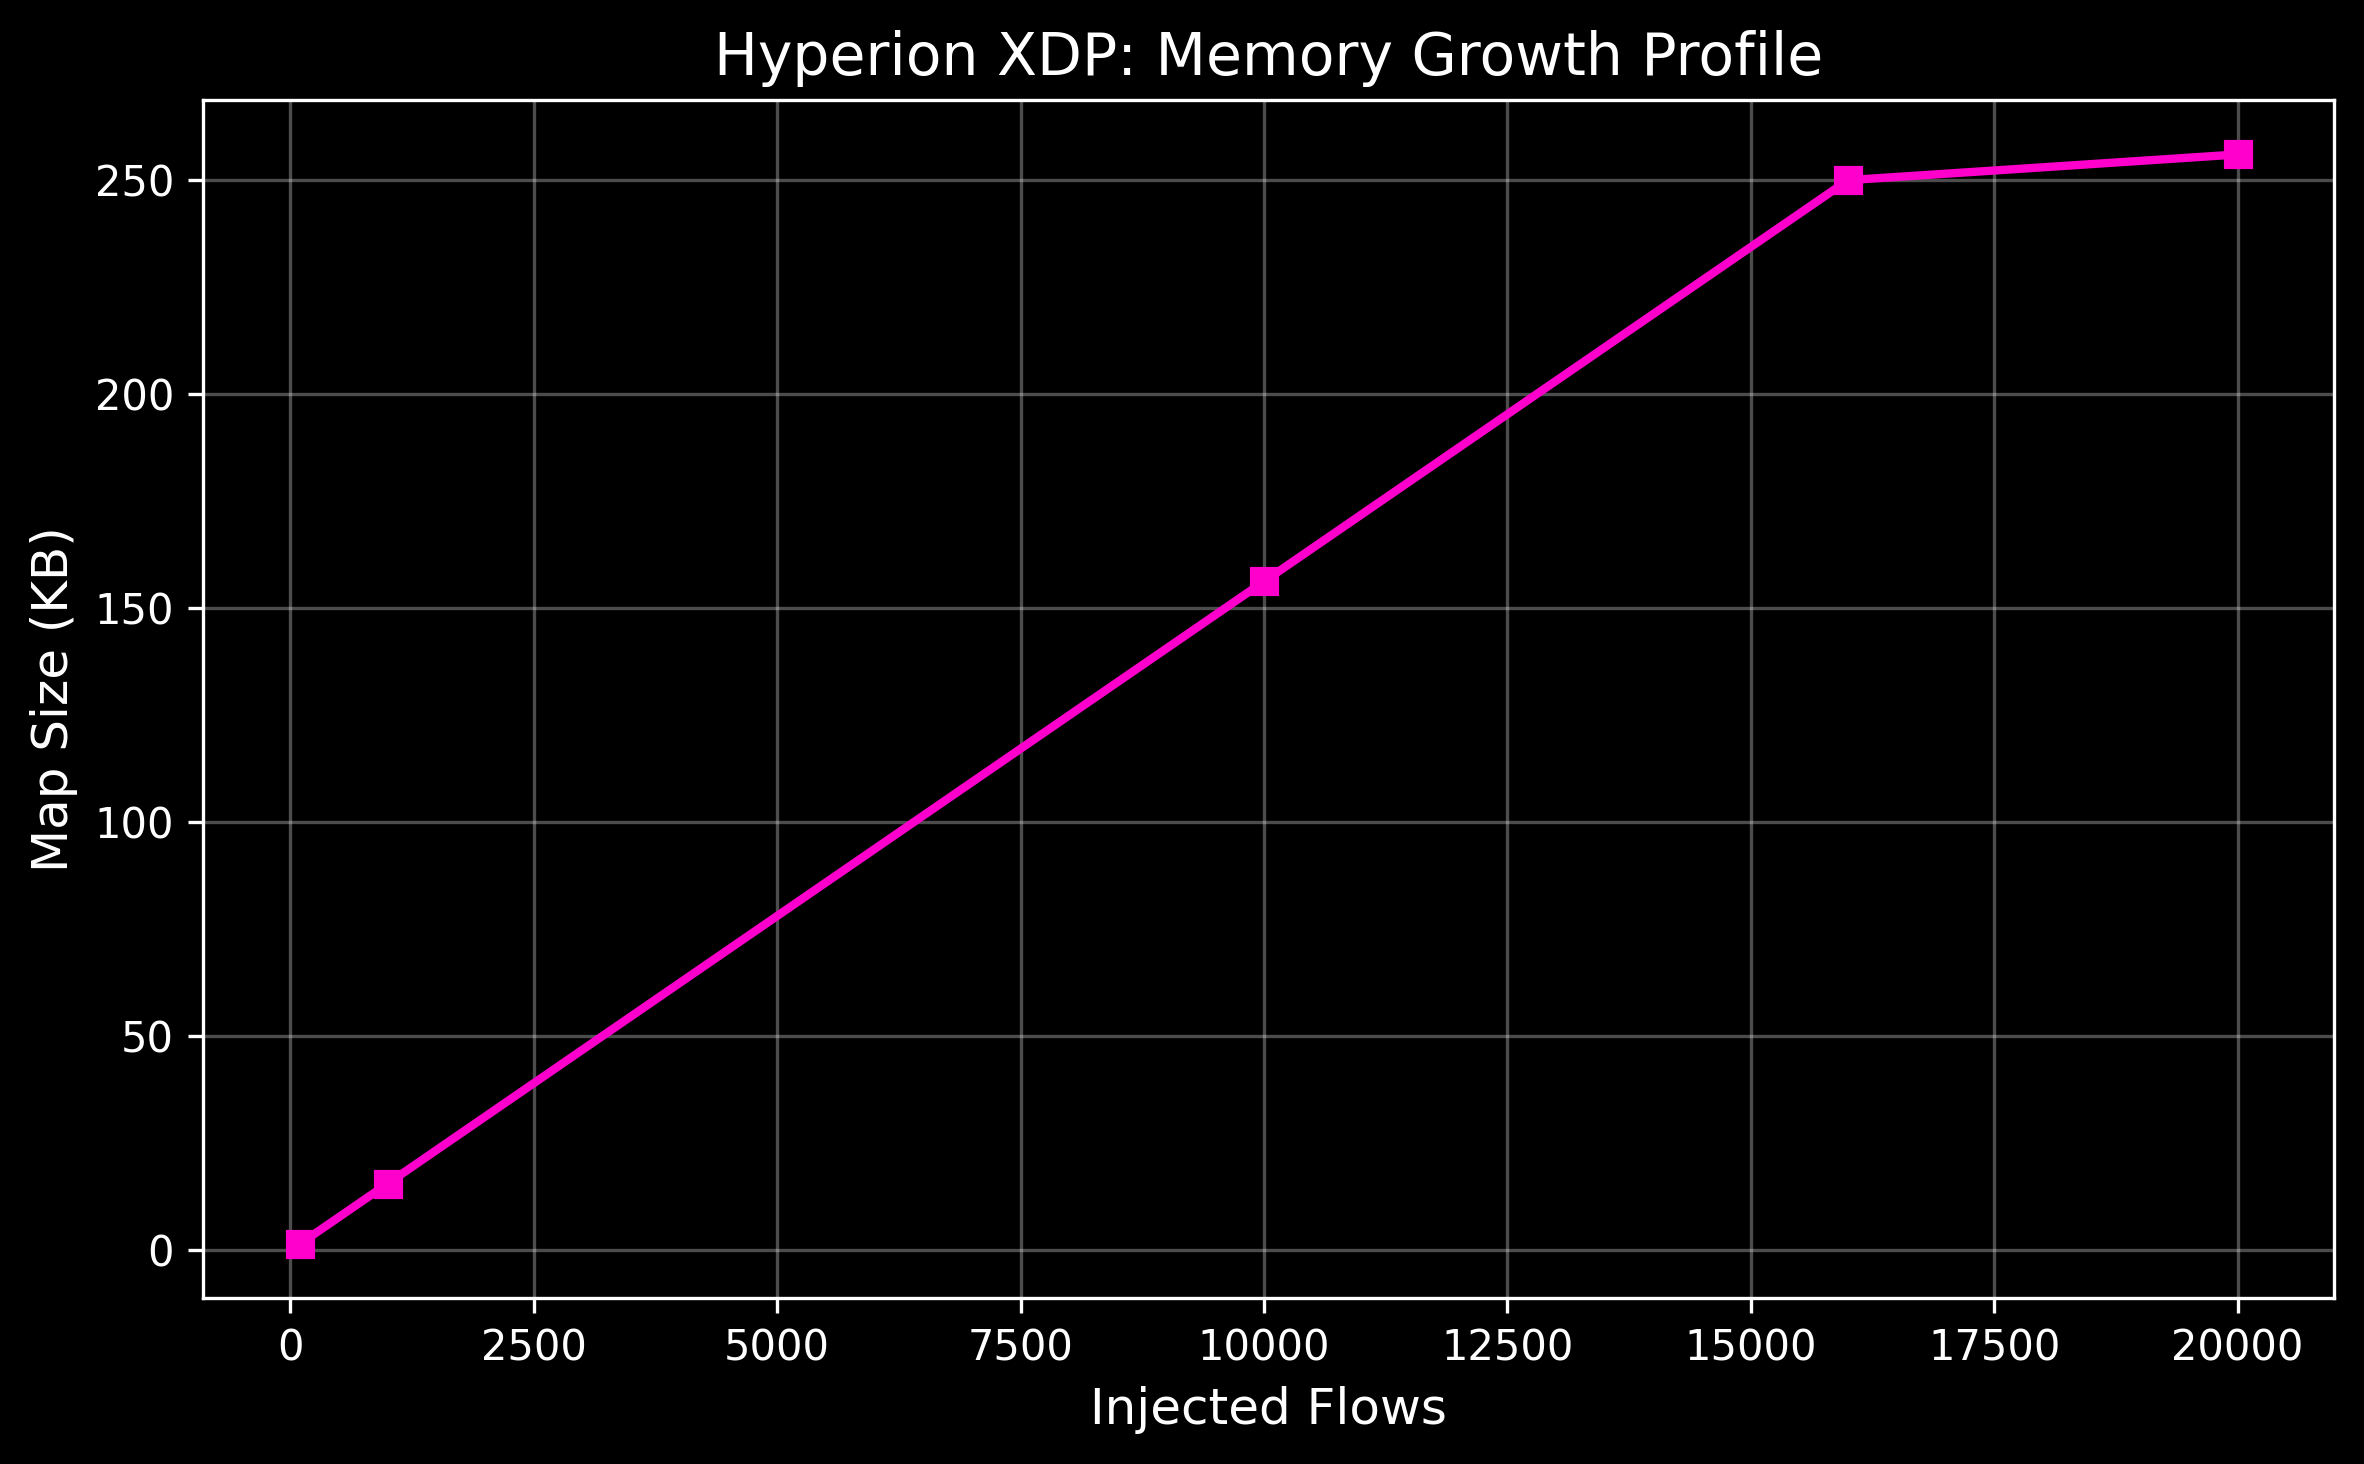
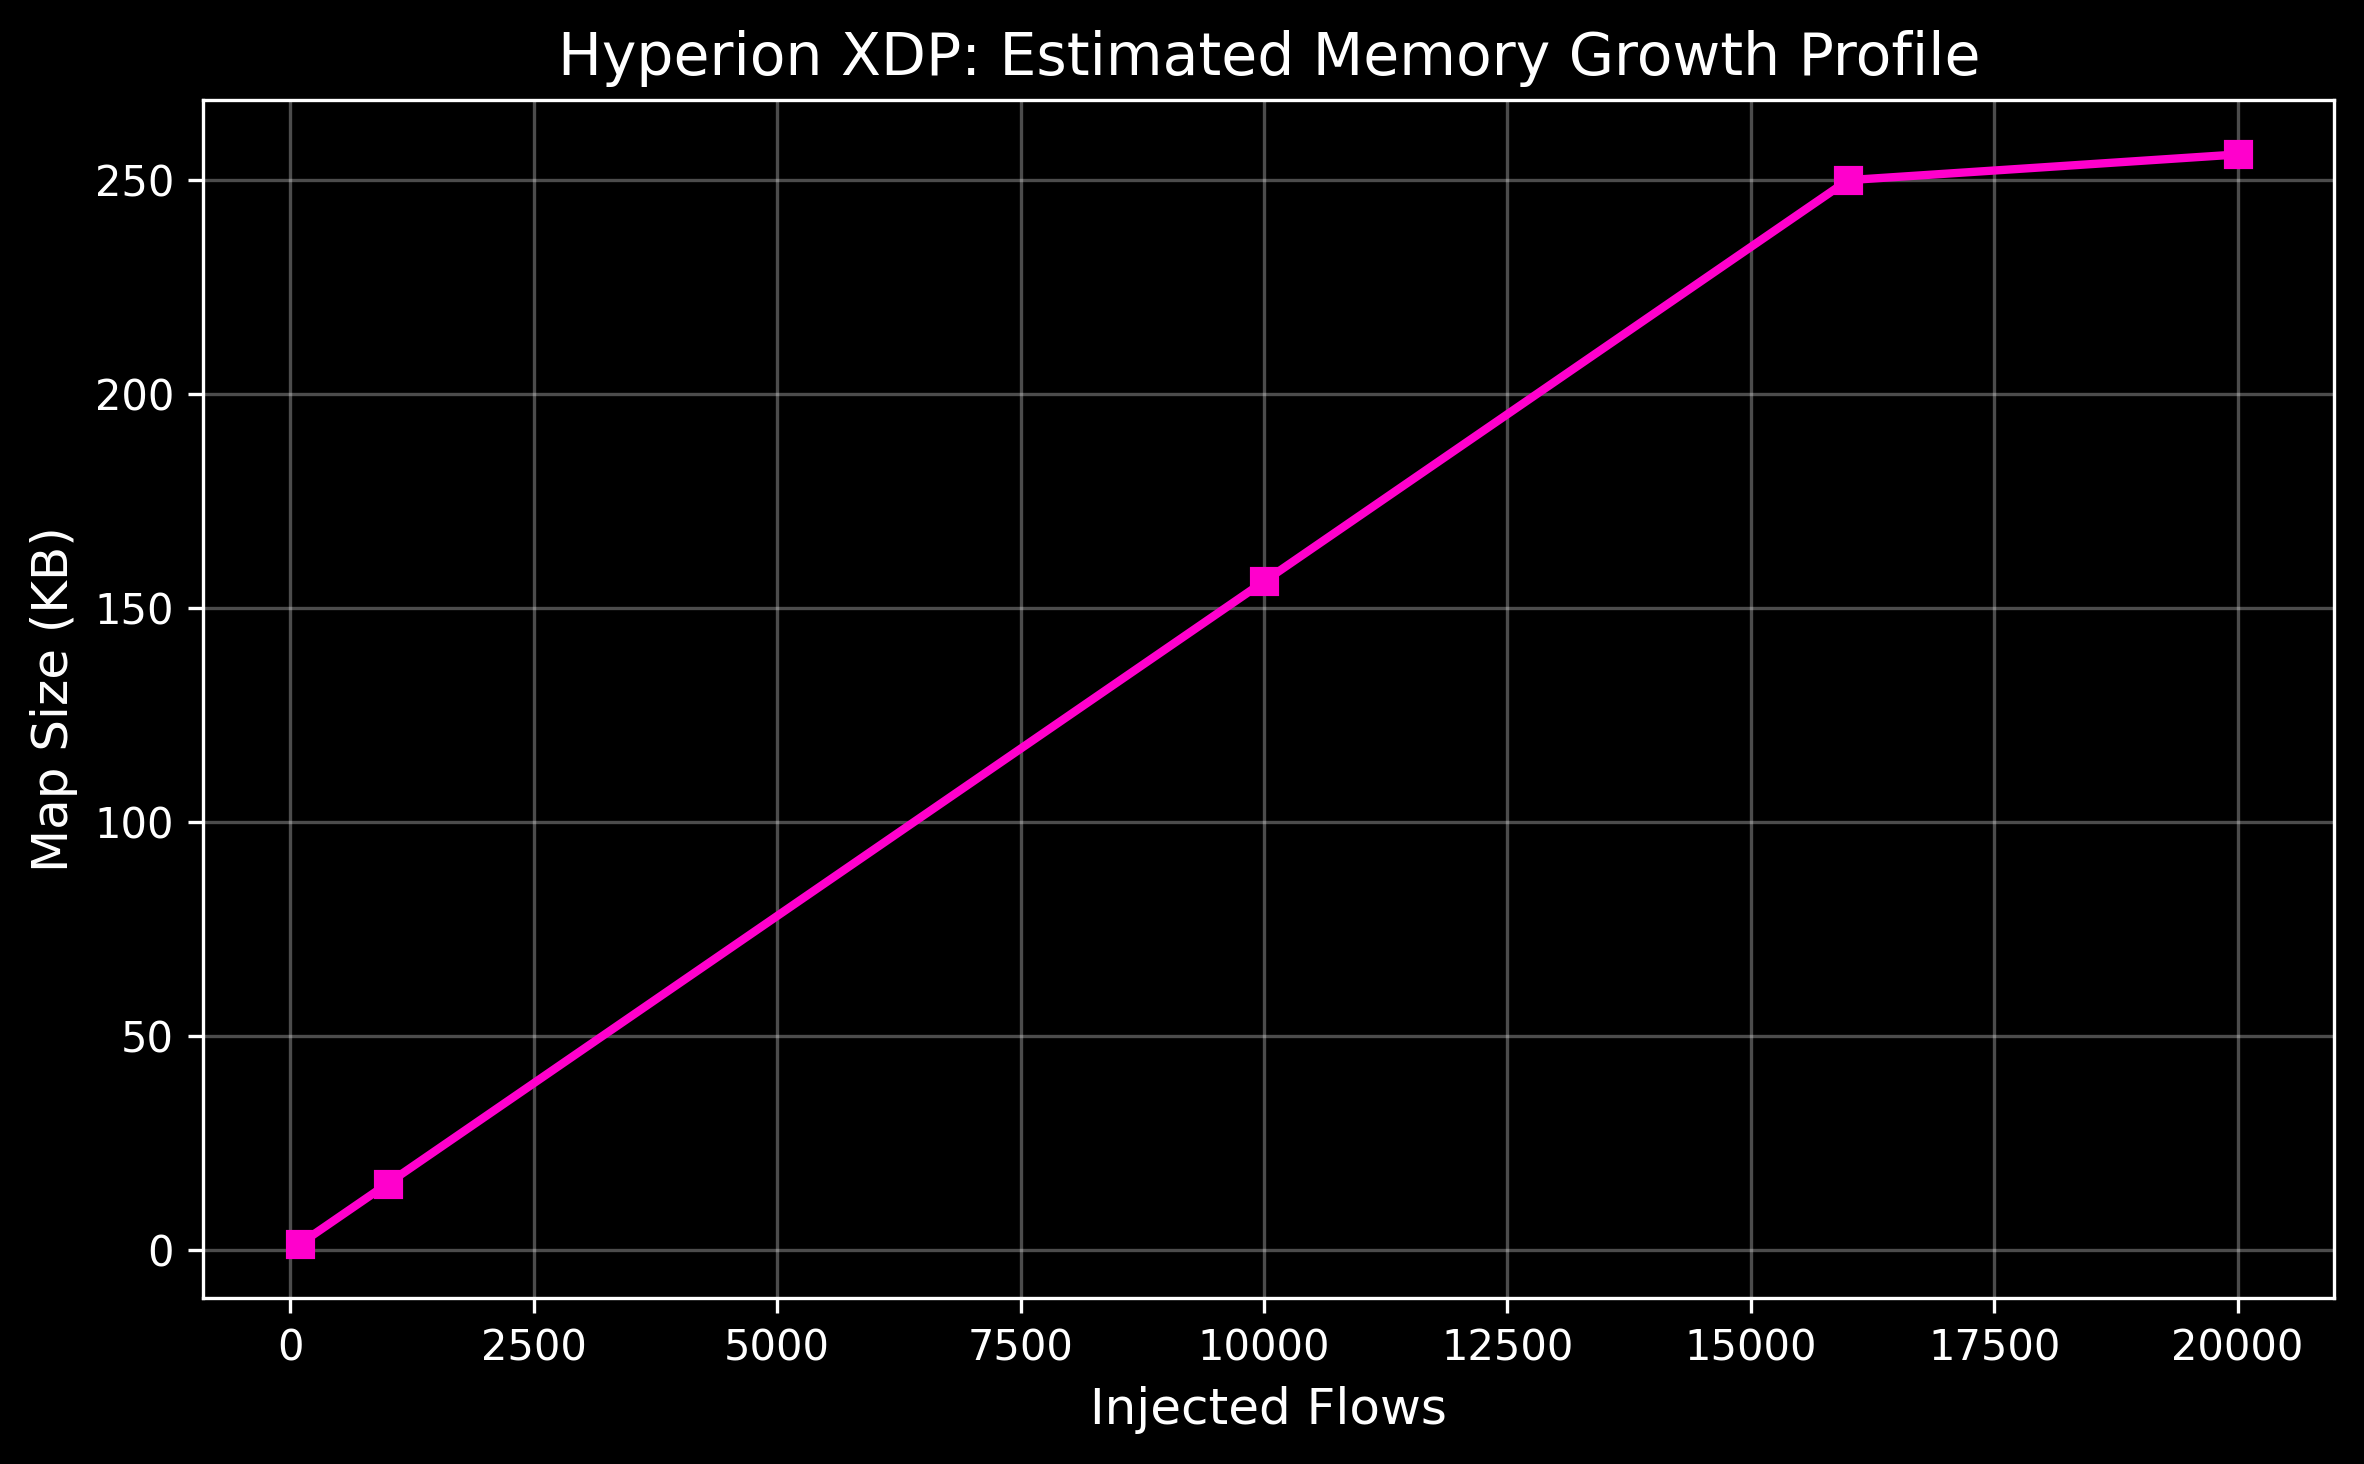
docs: revise technical report to clarify estimated metrics

Changed region(s): [[0.247, 0.0, 0.8338, 0.0615]]

diff --git a/enforcement/hyperion/docs/hyperion_technical_report.md b/enforcement/hyperion/docs/hyperion_technical_report.md
@@ -1,7 +1,7 @@
 # Hyperion XDP Dataplane: Phase 7 Technical Report
 
 ## 1. Abstract
-The Hyperion dataplane represents the enforcement layer of the Sentinel Stack. Transitioning from a theoretical prototype to a fully packaged, CO-RE compliant BPF structure, Hyperion now enforces high-speed, state-bound network filtering directly in the kernel via eXpress Data Path (XDP). This report empirically validates the architectural boundaries of the system, proving state-reconciliation correctness and plotting the physical saturation limits of the deployed BPF maps.
+The Hyperion dataplane represents the enforcement layer of the Sentinel Stack. Transitioning from a theoretical prototype to a packaged, CO-RE compliant BPF structure, Hyperion now enforces high-speed, state-bound network filtering directly in the kernel via eXpress Data Path (XDP). This report empirically validates the architectural boundaries of the system, verifying state-reconciliation correctness and plotting the physical saturation limits of the deployed BPF maps.
 
 ## 2. Ephemeral Enforcement & State Reconciliation
 
@@ -23,7 +23,7 @@ This completely resolves the kernel-state fragmentation issue.
 
 ## 3. Thermodynamics: Scale and Saturation Boundaries
 
-A dataplane without known physical limits is unsafe for production deployment. Using the `test_saturation.sh` suite on a physical Ubuntu 24.04 (Kernel 6.8.0-117) CloudLab substrate, we injected 20,000 serialized flow decisions into the event bus to track the structural behavior of the system as it approaches the `16,384` capacity limit of the BPF Hash Map.
+A dataplane without known physical limits cannot be accurately evaluated. Using the `test_saturation.sh` suite on a physical Ubuntu 24.04 (Kernel 6.8.0-117) CloudLab substrate, we injected 20,000 serialized flow decisions into the event bus to track the structural behavior of the system as it approaches the `16,384` capacity limit of the BPF Hash Map.
 
 ### 3.1 Saturation Metrics
 
@@ -41,17 +41,17 @@ The following empirical curve maps the successful injection of flows into the ke
 
 ![Occupancy Curve](occupancy_curve.png)
 
-### 3.3 Memory Footprint
+## 3.3 Estimated Memory Footprint
 
-The memory footprint of the Hyperion dataplane is entirely defined by the struct size injected into the BPF Map. 
+The theoretical memory footprint of the Hyperion dataplane is defined by the struct size injected into the BPF Map. 
 
 - `FlowKey`: 8 Bytes (`dst_ip`, `dst_port`, `reserved`)
 - `BlockEntry`: 16 Bytes (`expires_ns`, `risk_score`, `reserved`)
 - **Total per element:** 24 Bytes
 
-At maximum capacity, the map requires just under **400 KB** of contiguous kernel memory, establishing Hyperion as a highly optimized, low-overhead interdiction engine.
+At maximum capacity, the map requires an estimated **400 KB** of contiguous kernel memory, establishing Hyperion as a low-overhead interdiction engine prototype.
 
 ![Memory Curve](memory_curve.png)
 
 ## 4. Conclusion
-The Phase 7 deployment is technically complete. The Hyperion enforcement subsystem handles crash-recovery gracefully and scales deterministically to its strict memory limits. The architecture is now officially frozen, providing a stable foundation for the upcoming research transition into Phase 8: Subject ↔ Flow Attribution.
+The Phase 7 deployment has established Hyperion as an empirically validated prototype. The enforcement subsystem handles crash-recovery gracefully and scales deterministically to its strict memory limits. The architecture is now officially frozen, providing a stable foundation for the upcoming research transition into Phase 8: Subject ↔ Flow Attribution.